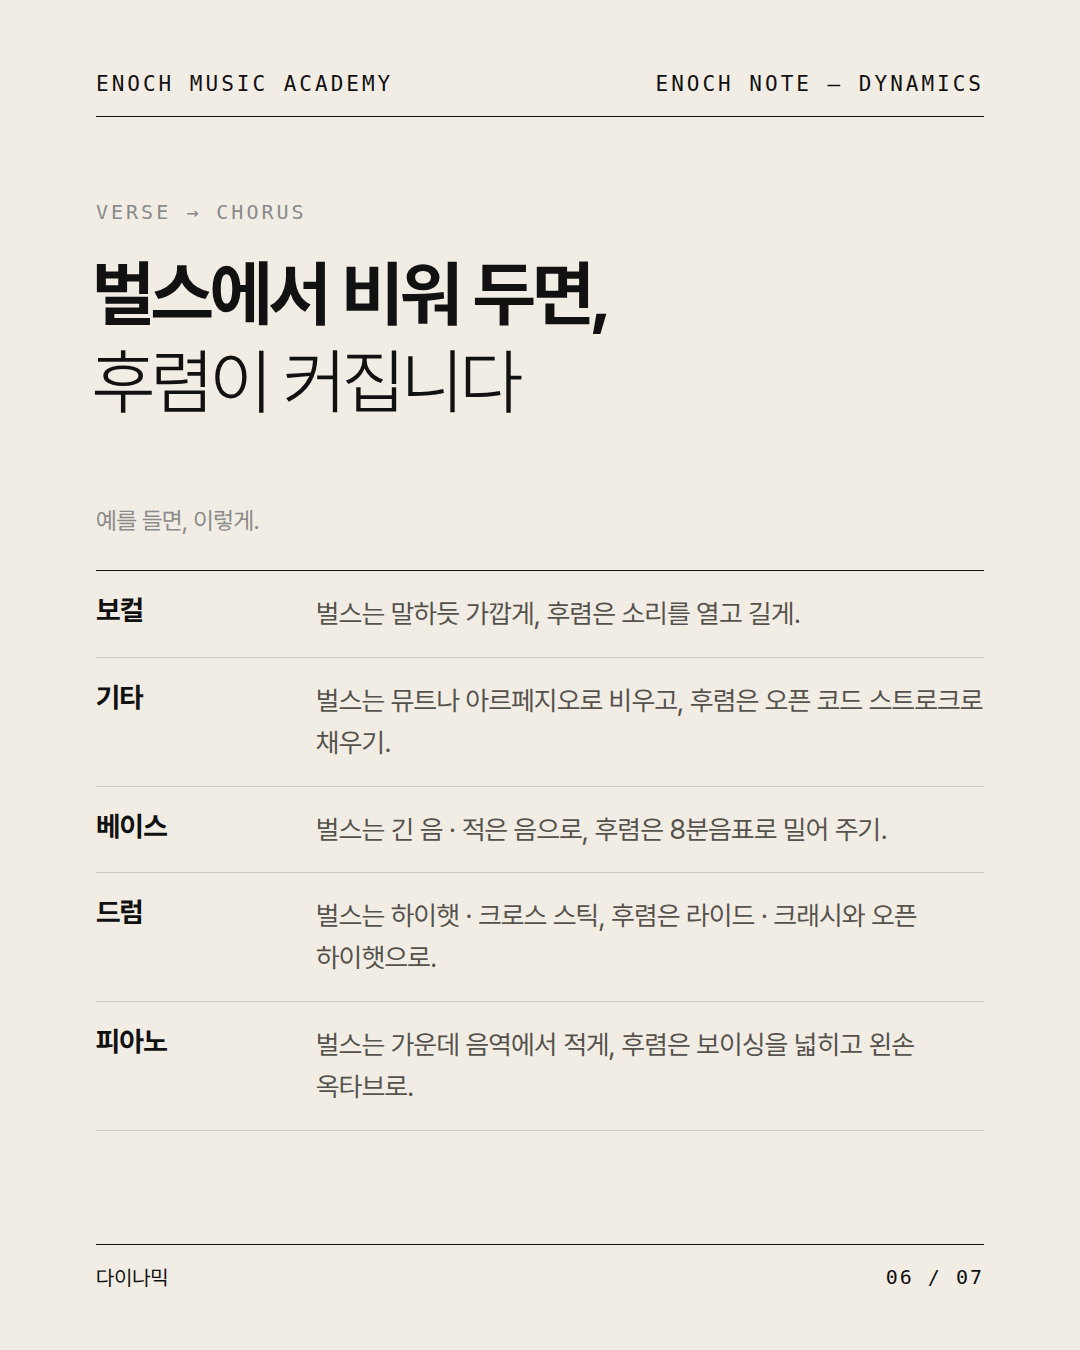
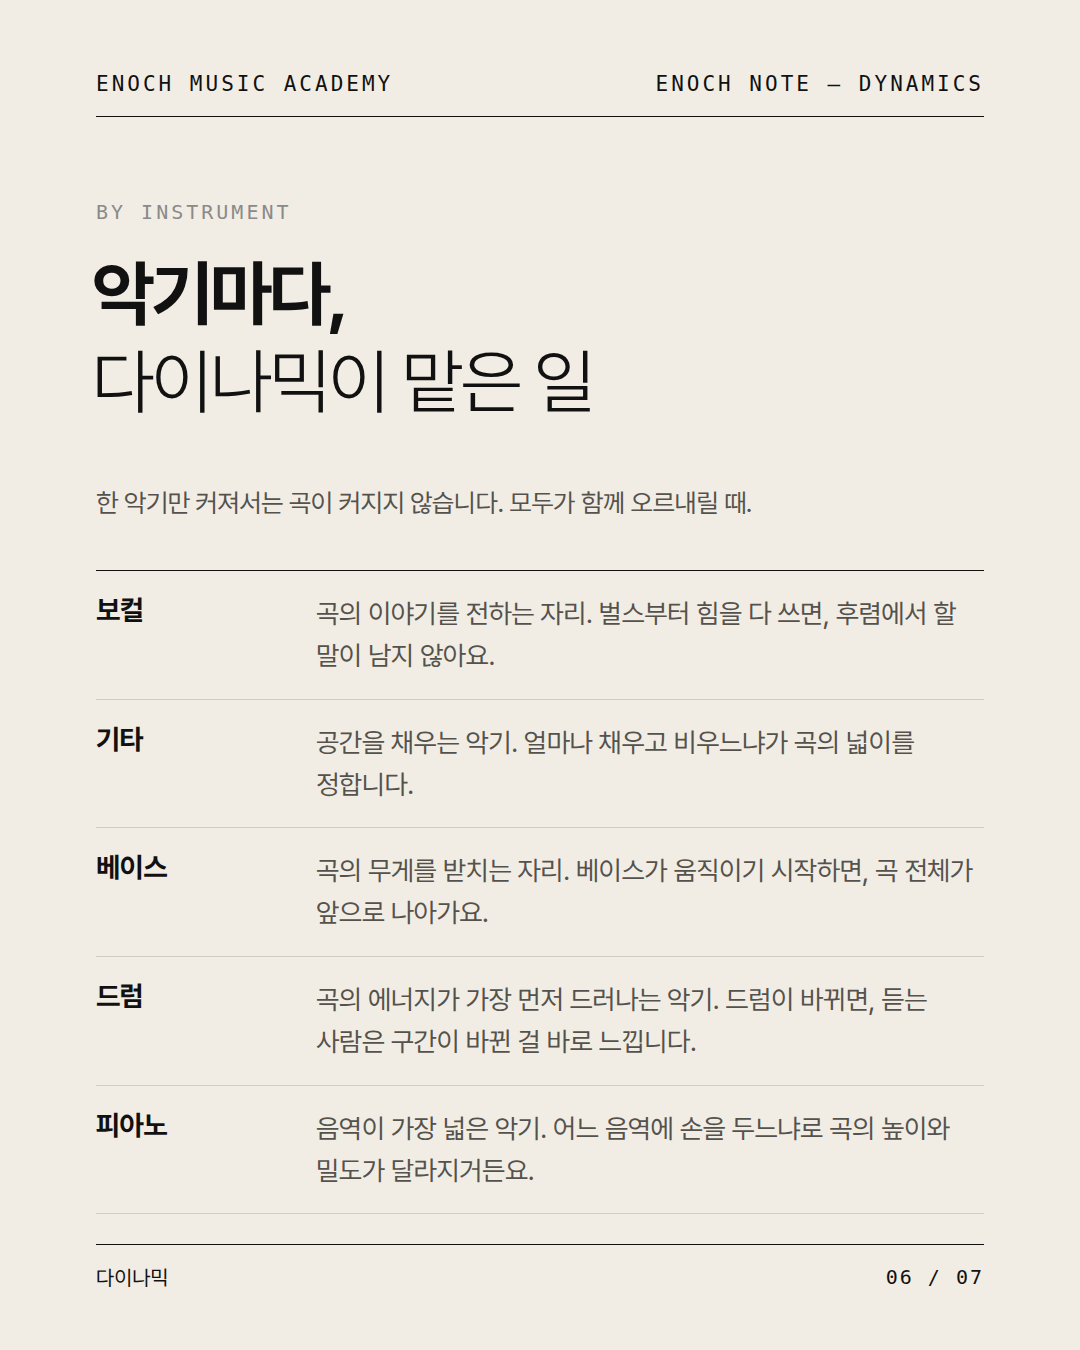
다이나믹: 6장을 악기별 다이나믹의 역할로 교체
Claude-Session: https://claude.ai/code/session_01HGbZvgMeYrbU7mY8bwfjyb

diff --git a/output/노트_다이나믹/deck.html b/output/노트_다이나믹/deck.html
@@ -54,10 +54,10 @@
 <div class="row"><span class="n">04 &nbsp;녹음</span><span class="t">처음부터 끝까지 녹음해서, 적은 숫자대로 오르내리는지 들어 보기.</span></div>
 </div>
 <div class="ft"><span>다이나믹</span><span>05 / 07</span></div></section><section class="s" id="c6"><div class="hd"><span>ENOCH MUSIC ACADEMY</span><span>ENOCH NOTE — DYNAMICS</span></div>
-<div class="k a" style="left:96px;top:200px">Verse → Chorus</div>
-<div class="h a" style="left:92px;top:250px">벌스에서 비워 두면,<br><em>후렴이 커집니다</em></div>
-<div class="p a" style="left:96px;top:500px;font-size:24px;color:#8A8A8A">예를 들면, 이렇게.</div>
-<div class="a" style="left:96px;right:96px;top:570px;border-top:1.5px solid #111"><div class="row"><span class="n">보컬</span><span class="t">벌스는 말하듯 가깝게, 후렴은 소리를 열고 길게.</span></div><div class="row"><span class="n">기타</span><span class="t">벌스는 뮤트나 아르페지오로 비우고, 후렴은 오픈 코드 스트로크로 채우기.</span></div><div class="row"><span class="n">베이스</span><span class="t">벌스는 긴 음 · 적은 음으로, 후렴은 8분음표로 밀어 주기.</span></div><div class="row"><span class="n">드럼</span><span class="t">벌스는 하이햇 · 크로스 스틱, 후렴은 라이드 · 크래시와 오픈 하이햇으로.</span></div><div class="row"><span class="n">피아노</span><span class="t">벌스는 가운데 음역에서 적게, 후렴은 보이싱을 넓히고 왼손 옥타브로.</span></div></div>
+<div class="k a" style="left:96px;top:200px">By Instrument</div>
+<div class="h a" style="left:92px;top:250px">악기마다,<br><em>다이나믹이 맡은 일</em></div>
+<div class="p a" style="left:96px;right:96px;top:480px;font-size:26px">한 악기만 커져서는 곡이 커지지 않습니다. 모두가 함께 오르내릴 때.</div>
+<div class="a" style="left:96px;right:96px;top:570px;border-top:1.5px solid #111"><div class="row"><span class="n">보컬</span><span class="t">곡의 이야기를 전하는 자리. 벌스부터 힘을 다 쓰면, 후렴에서 할 말이 남지 않아요.</span></div><div class="row"><span class="n">기타</span><span class="t">공간을 채우는 악기. 얼마나 채우고 비우느냐가 곡의 넓이를 정합니다.</span></div><div class="row"><span class="n">베이스</span><span class="t">곡의 무게를 받치는 자리. 베이스가 움직이기 시작하면, 곡 전체가 앞으로 나아가요.</span></div><div class="row"><span class="n">드럼</span><span class="t">곡의 에너지가 가장 먼저 드러나는 악기. 드럼이 바뀌면, 듣는 사람은 구간이 바뀐 걸 바로 느낍니다.</span></div><div class="row"><span class="n">피아노</span><span class="t">음역이 가장 넓은 악기. 어느 음역에 손을 두느냐로 곡의 높이와 밀도가 달라지거든요.</span></div></div>
 <div class="ft"><span>다이나믹</span><span>06 / 07</span></div></section><section class="s dark" id="c7"><div class="hd"><span>ENOCH MUSIC ACADEMY</span><span>THE ENOCH WAY</span></div>
 <div class="a" style="left:92px;top:150px;font-family:var(--en);font-weight:700;font-size:240px;letter-spacing:-8px;color:#2A2825;line-height:1">ENOCH</div>
 <div class="h a" style="left:92px;top:450px">언제 크게 칠지 알 때,<br><span style="color:var(--mi)">후렴이 터집니다.</span></div>

diff --git a/output/노트_다이나믹/gen.py b/output/노트_다이나믹/gen.py
@@ -88,12 +88,12 @@ S.append(f"""<section class="s dark" id="c5">{HD("TRY AT HOME")}
 {FT(5)}</section>""")
 
 # 06 악기별
-parts=[("보컬","벌스는 말하듯 가깝게, 후렴은 소리를 열고 길게."),("기타","벌스는 뮤트나 아르페지오로 비우고, 후렴은 오픈 코드 스트로크로 채우기."),("베이스","벌스는 긴 음 · 적은 음으로, 후렴은 8분음표로 밀어 주기."),("드럼","벌스는 하이햇 · 크로스 스틱, 후렴은 라이드 · 크래시와 오픈 하이햇으로."),("피아노","벌스는 가운데 음역에서 적게, 후렴은 보이싱을 넓히고 왼손 옥타브로.")]
+parts=[("보컬","곡의 이야기를 전하는 자리. 벌스부터 힘을 다 쓰면, 후렴에서 할 말이 남지 않아요."),("기타","공간을 채우는 악기. 얼마나 채우고 비우느냐가 곡의 넓이를 정합니다."),("베이스","곡의 무게를 받치는 자리. 베이스가 움직이기 시작하면, 곡 전체가 앞으로 나아가요."),("드럼","곡의 에너지가 가장 먼저 드러나는 악기. 드럼이 바뀌면, 듣는 사람은 구간이 바뀐 걸 바로 느낍니다."),("피아노","음역이 가장 넓은 악기. 어느 음역에 손을 두느냐로 곡의 높이와 밀도가 달라지거든요.")]
 rows=''.join(f'<div class="row"><span class="n">{a}</span><span class="t">{b}</span></div>' for a,b in parts)
 S.append(f"""<section class="s" id="c6">{HD()}
-<div class="k a" style="left:96px;top:200px">Verse → Chorus</div>
-<div class="h a" style="left:92px;top:250px">벌스에서 비워 두면,<br><em>후렴이 커집니다</em></div>
-<div class="p a" style="left:96px;top:500px;font-size:24px;color:#8A8A8A">예를 들면, 이렇게.</div>
+<div class="k a" style="left:96px;top:200px">By Instrument</div>
+<div class="h a" style="left:92px;top:250px">악기마다,<br><em>다이나믹이 맡은 일</em></div>
+<div class="p a" style="left:96px;right:96px;top:480px;font-size:26px">한 악기만 커져서는 곡이 커지지 않습니다. 모두가 함께 오르내릴 때.</div>
 <div class="a" style="left:96px;right:96px;top:570px;border-top:1.5px solid #111">{rows}</div>
 {FT(6)}</section>""")
 

diff --git a/output/노트_다이나믹/caption.md b/output/노트_다이나믹/caption.md
@@ -20,7 +20,7 @@
 3. 곡 구성(인트로–벌스–후렴–브리지–마지막 후렴)에 따른 에너지 변화 선 그래프
 4. 곡의 에너지를 움직이는 세 가지: 크기, 밀도, 음역
 5. 집에서 해 보기: 구간 나누기, 1–10 숫자 적기, 정점 하나 정하기, 녹음
-6. 벌스에서 후렴으로 갈 때 보컬·기타·베이스·드럼·피아노가 달라지는 예
+6. 보컬·기타·베이스·드럼·피아노가 곡의 다이나믹에서 맡는 역할
 7. 마무리: "언제 크게 칠지 알 때, 후렴이 터집니다." 학원 주소와 전화
 
 ## 하이라이트 분류
